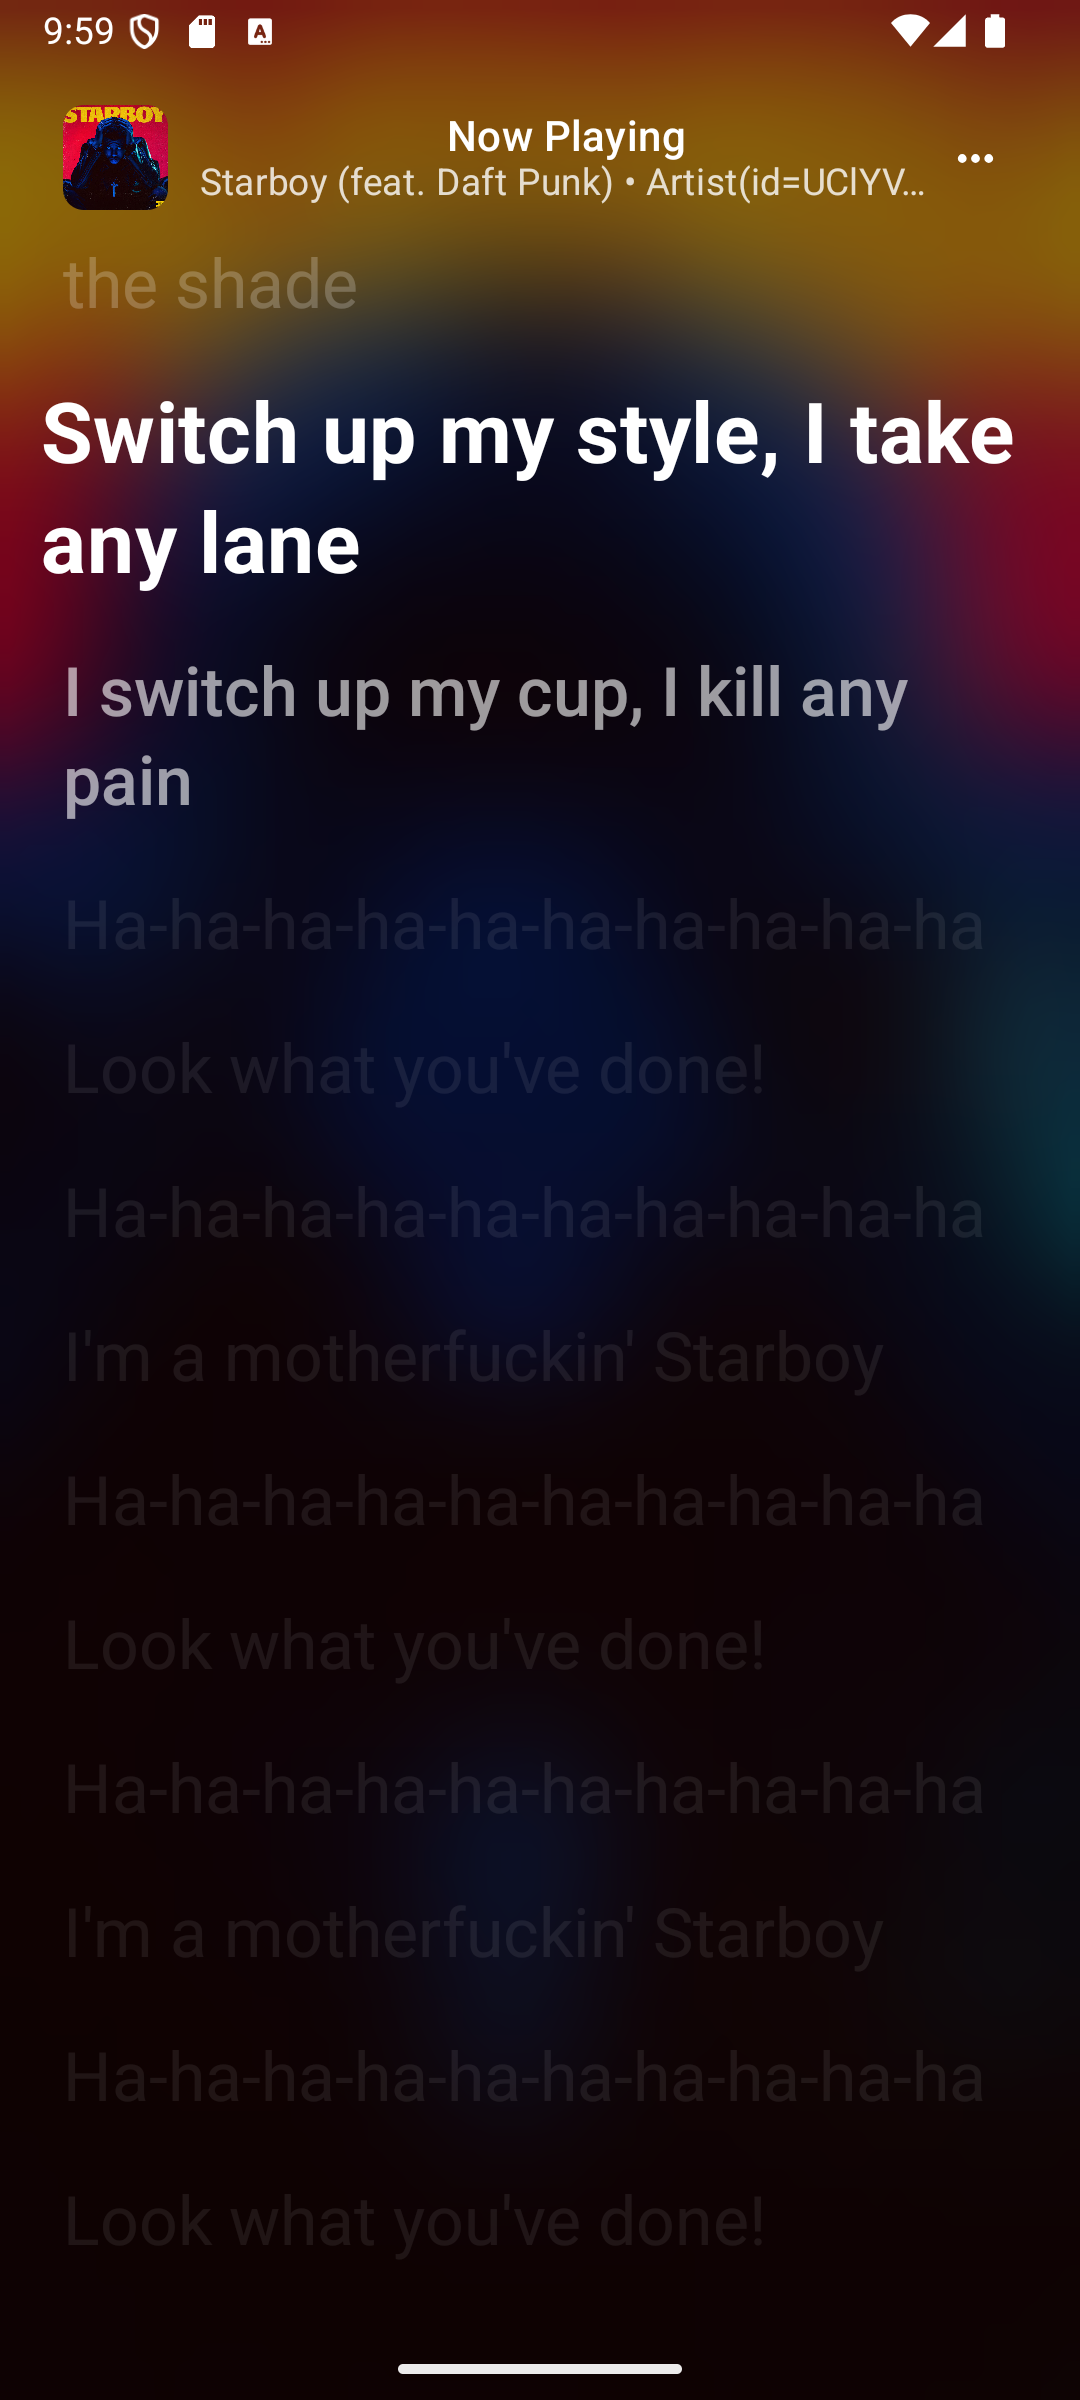
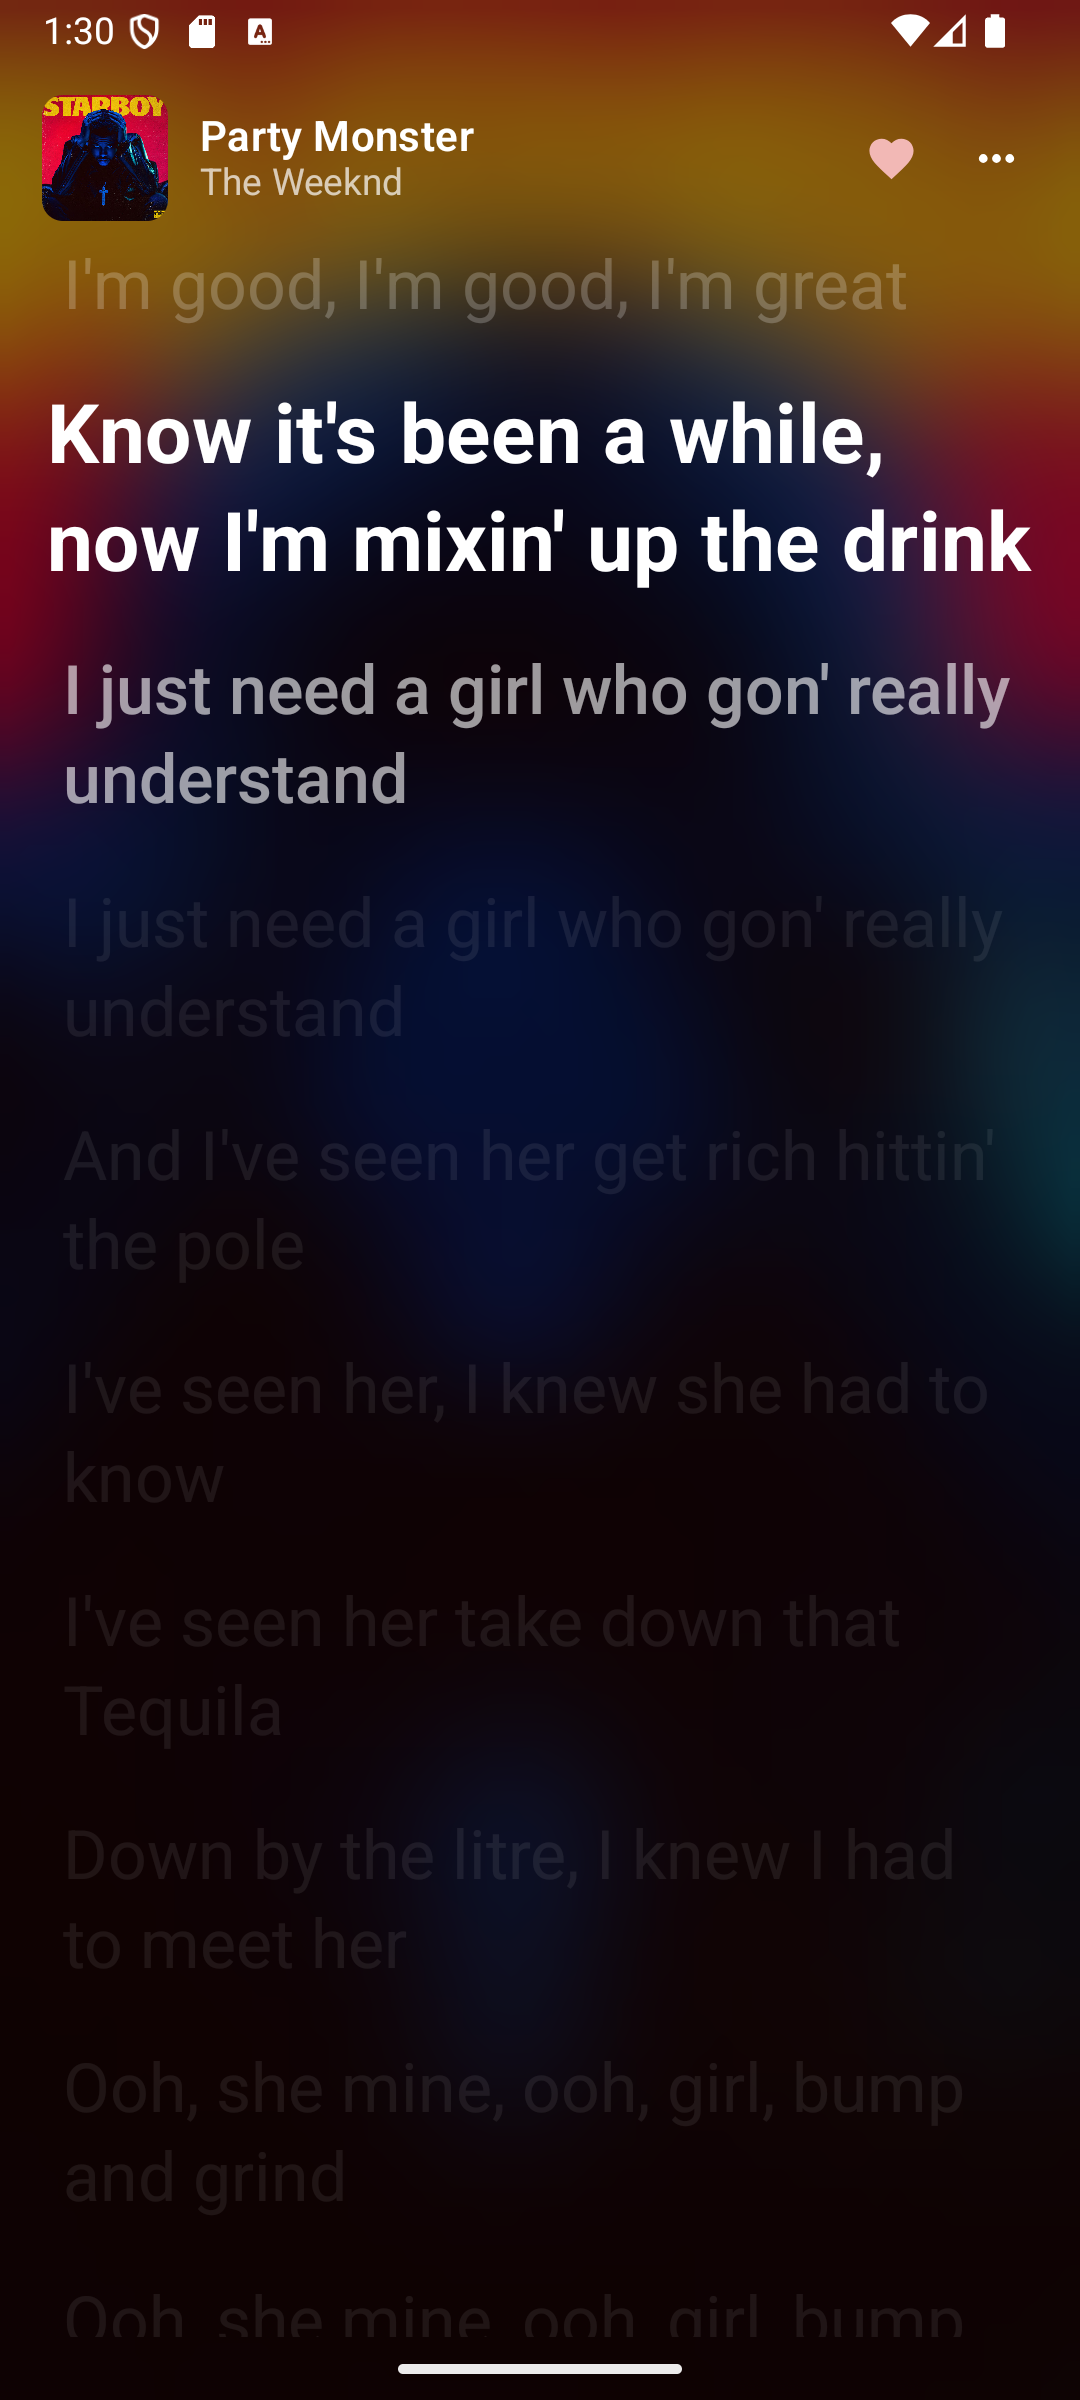
updated : Lyrics matching the apple music

Changed region(s): [[0.0306, 0.0, 0.9472, 0.25], [0.0611, 0.2812, 0.9472, 0.3438]]

diff --git a/app/src/main/kotlin/com/music/vivi/ui/player/LyricsScreen.kt b/app/src/main/kotlin/com/music/vivi/ui/player/LyricsScreen.kt
@@ -238,6 +238,8 @@ fun LyricsScreen(
     var position by remember { mutableLongStateOf(0L) }
     var duration by remember { mutableLongStateOf(C.TIME_UNSET) }
     var sliderPosition by remember { mutableStateOf<Long?>(null) }
+    //like button
+    val currentSong by playerConnection.currentSong.collectAsState(initial = null)
 
     val playerBackground by rememberEnumPreference(PlayerBackgroundStyleKey, PlayerBackgroundStyle.GRADIENT)
 
@@ -701,84 +703,126 @@ fun LyricsScreen(
                         .padding(WindowInsets.systemBars.asPaddingValues())
                 ) {
                     // Header with Down arrow and More button
-                    // Replace your current header Row in both portrait and landscape modes with this:
+                    // Replace your portrait mode header Row with this updated version:
 
                     Row(
                         modifier = Modifier
                             .fillMaxWidth()
-                            .padding(horizontal = 24.dp, vertical = 16.dp),
+                            .padding(horizontal = 16.dp, vertical = 12.dp),
                         verticalAlignment = Alignment.CenterVertically,
                         horizontalArrangement = Arrangement.SpaceBetween
                     ) {
-                        // Center content with album artwork - like in the image
+                        // Left side - Album artwork and text info
                         Row(
                             verticalAlignment = Alignment.CenterVertically,
-                            horizontalArrangement = Arrangement.Center,
                             modifier = Modifier.weight(1f)
                         ) {
-                            // Album artwork thumbnail
+                            // Album artwork
                             AsyncImage(
                                 model = mediaMetadata.thumbnailUrl,
                                 contentDescription = null,
                                 contentScale = ContentScale.Crop,
                                 modifier = Modifier
-                                    .size(40.dp)
+                                    .size(48.dp)
                                     .clip(RoundedCornerShape(8.dp))
                             )
 
                             Spacer(modifier = Modifier.width(12.dp))
 
-                            // Text content
+                            // Song and artist info
                             Column(
-                                horizontalAlignment = Alignment.CenterHorizontally
+                                verticalArrangement = Arrangement.Center,
+                                modifier = Modifier.weight(1f)
                             ) {
                                 Text(
-                                    text = stringResource(R.string.now_playing),
+                                    text = mediaMetadata.title,
                                     style = MaterialTheme.typography.titleMedium.copy(
                                         fontSize = 16.sp,
-                                        fontWeight = FontWeight.Medium
+                                        fontWeight = FontWeight.SemiBold
                                     ),
-                                    color = textBackgroundColor
+                                    color = textBackgroundColor,
+                                    maxLines = 1,
+                                    overflow = TextOverflow.Ellipsis
                                 )
                                 Text(
-                                    text = "${mediaMetadata.title}${if (mediaMetadata.artists.isNotEmpty()) " • ${mediaMetadata.artists.joinToString(", ")}" else ""}",
+                                    text = if (mediaMetadata.artists.isNotEmpty()) {
+                                        mediaMetadata.artists.joinToString(", ") { it.name }
+                                    } else {
+                                        "Unknown Artist"
+                                    },
                                     style = MaterialTheme.typography.bodyMedium.copy(
                                         fontSize = 14.sp
                                     ),
-                                    color = textBackgroundColor.copy(alpha = 0.8f),
+                                    color = textBackgroundColor.copy(alpha = 0.7f),
                                     maxLines = 1,
                                     overflow = TextOverflow.Ellipsis
                                 )
                             }
                         }
 
-                        // More button (right)
-                        Box(
-                            modifier = Modifier
-                                .size(32.dp)
-                                .clickable(
-                                    interactionSource = remember { MutableInteractionSource() },
-                                    indication = ripple(
-                                        bounded = true,
-                                        radius = 16.dp
-                                    )
-                                ) {
-                                    menuState.show {
-                                        LyricsMenu(
-                                            lyricsProvider = { currentLyrics },
-                                            mediaMetadataProvider = { mediaMetadata },
-                                            onDismiss = menuState::dismiss
-                                        )
-                                    }
-                                },
-                            contentAlignment = Alignment.Center
+                        // Right side - Action buttons
+                        Row(
+                            verticalAlignment = Alignment.CenterVertically,
+                            horizontalArrangement = Arrangement.spacedBy(8.dp)
                         ) {
-                            Icon(
-                                painter = painterResource(R.drawable.more_horiz),
-                                contentDescription = stringResource(R.string.more_options),
-                                tint = textBackgroundColor,
-                                modifier = Modifier.size(20.dp)
-                            )
+                            // Favorite button
+                            Box(
+                                modifier = Modifier
+                                    .size(32.dp)
+                                    .clickable(
+                                        interactionSource = remember { MutableInteractionSource() },
+                                        indication = ripple(
+                                            bounded = true,
+                                            radius = 16.dp
+                                        )
+                                    ) {
+                                        playerConnection.toggleLike()
+                                    },
+                                contentAlignment = Alignment.Center
+                            ) {
+                                Icon(
+                                    painter = painterResource(
+                                        if (currentSong?.song?.liked == true)
+                                            R.drawable.favorite
+                                        else R.drawable.favorite_border
+                                    ),
+                                    contentDescription = if (currentSong?.song?.liked == true) "Remove from favorites" else "Add to favorites",
+                                    tint = if (currentSong?.song?.liked == true)
+                                        MaterialTheme.colorScheme.error
+                                    else
+                                        textBackgroundColor.copy(alpha = 0.8f),
+                                    modifier = Modifier.size(20.dp)
+                                )
+                            }
+
+                            // More button
+                            Box(
+                                modifier = Modifier
+                                    .size(32.dp)
+                                    .clickable(
+                                        interactionSource = remember { MutableInteractionSource() },
+                                        indication = ripple(
+                                            bounded = true,
+                                            radius = 16.dp
+                                        )
+                                    ) {
+                                        menuState.show {
+                                            LyricsMenu(
+                                                lyricsProvider = { currentLyrics },
+                                                mediaMetadataProvider = { mediaMetadata },
+                                                onDismiss = menuState::dismiss
+                                            )
+                                        }
+                                    },
+                                contentAlignment = Alignment.Center
+                            ) {
+                                Icon(
+                                    painter = painterResource(R.drawable.more_horiz),
+                                    contentDescription = stringResource(R.string.more_options),
+                                    tint = textBackgroundColor,
+                                    modifier = Modifier.size(20.dp)
+                                )
+                            }
                         }
                     }
 
